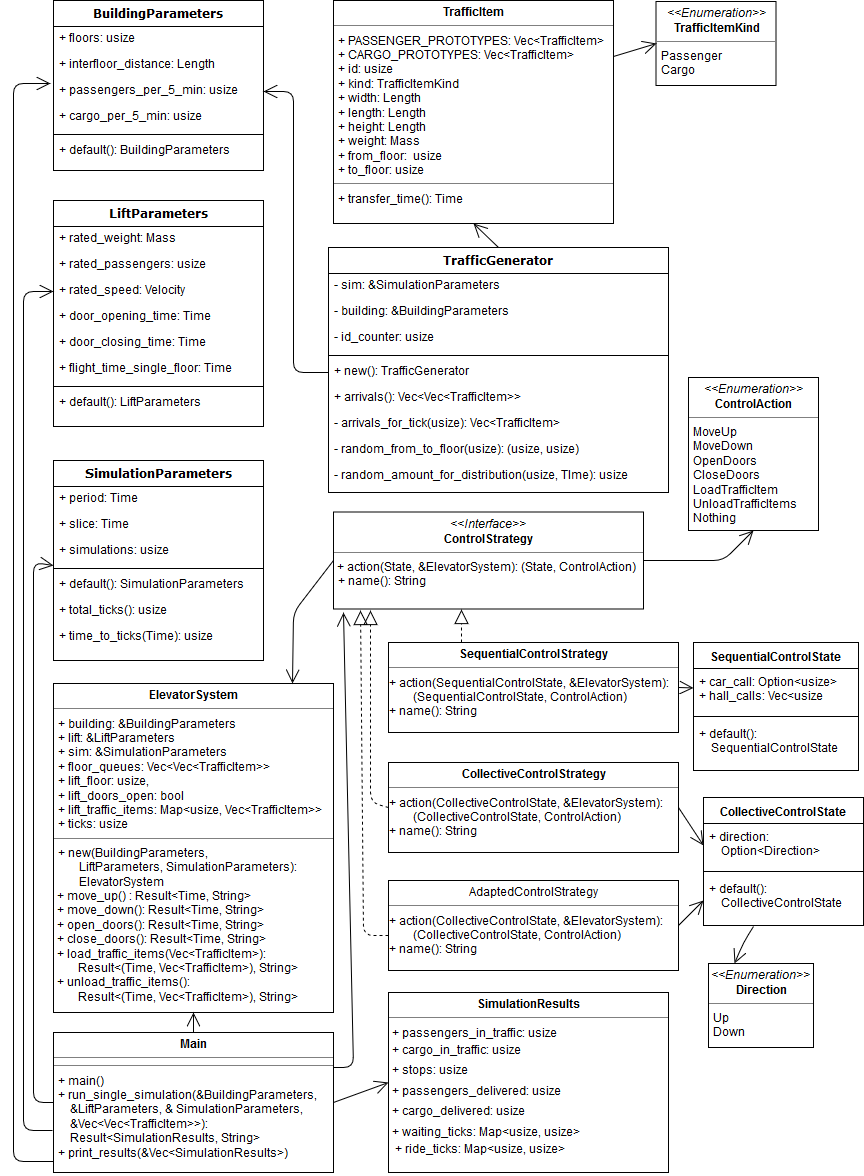
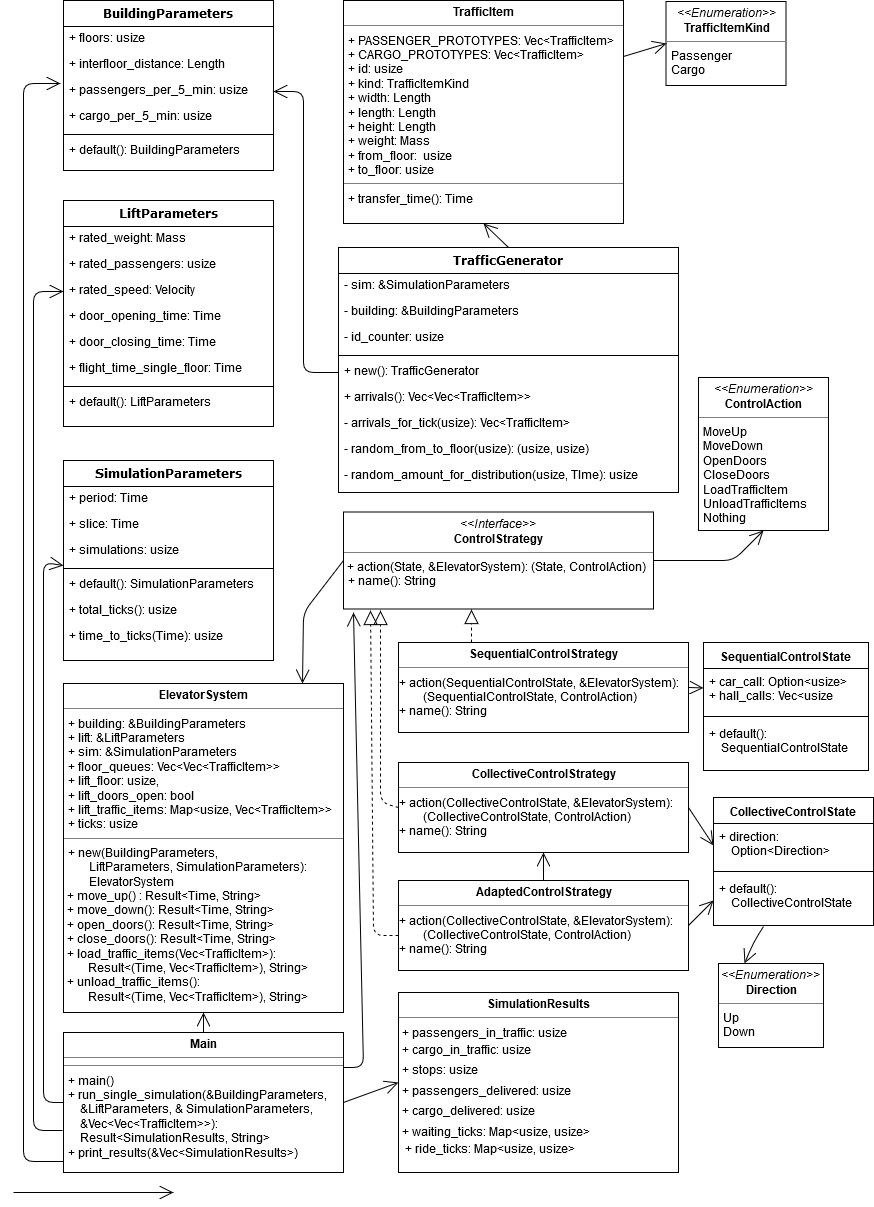
Dumper recognizes these files:   geändert:   content/04Implementation.tex   geändert:   resources/sim_uml_class.png
Please revert if changes are not right

Changed region(s): [[0.0, 0.0, 1.0, 1.0], [0.75, 0.0, 0.9062, 0.0918]]

diff --git a/content/04Implementation.tex b/content/04Implementation.tex
@@ -90,7 +90,7 @@ The actions it performs can be described as following:
 \end{enumerate}
 
 
-
+The actions takes in order to run a single simulation are then as follows:
 \begin{enumerate}
     \item Create a new \texttt{ElevatorSystem e}, which holds the system state to be altered during the simulation.
     \item Create an empty \texttt{SimulationResults} metric container, which will aggregate the metrics for this run.
@@ -107,6 +107,11 @@ The actions it performs can be described as following:
 \end{enumerate}
 
 TODO reference implementation of the strategies
+
+The three control strategies are passed to the execution of a single simulation as generic parameters parameters.
+Therefore, they all implement an interface \texttt{ControlStrategy}.
+The control strategies decide in each tick of the simulation, which action should be taken on the elevator system
+
 
 TODO reference and describe class diagram in figure \ref{fig:impl:simclass}
 rust does not support only the oop style, so a class diagram is not compleatly suitable
